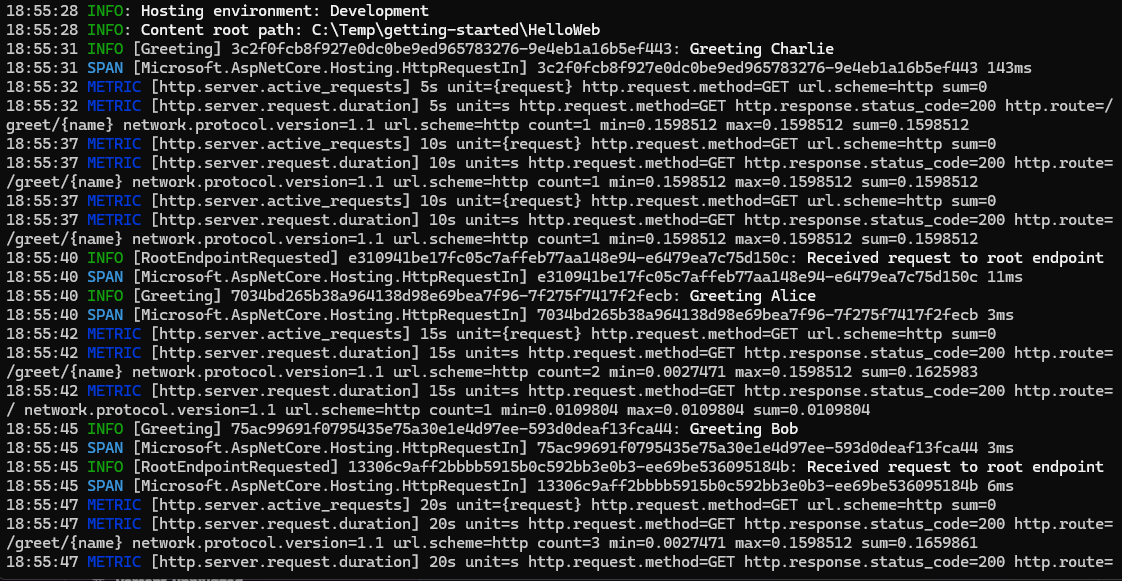
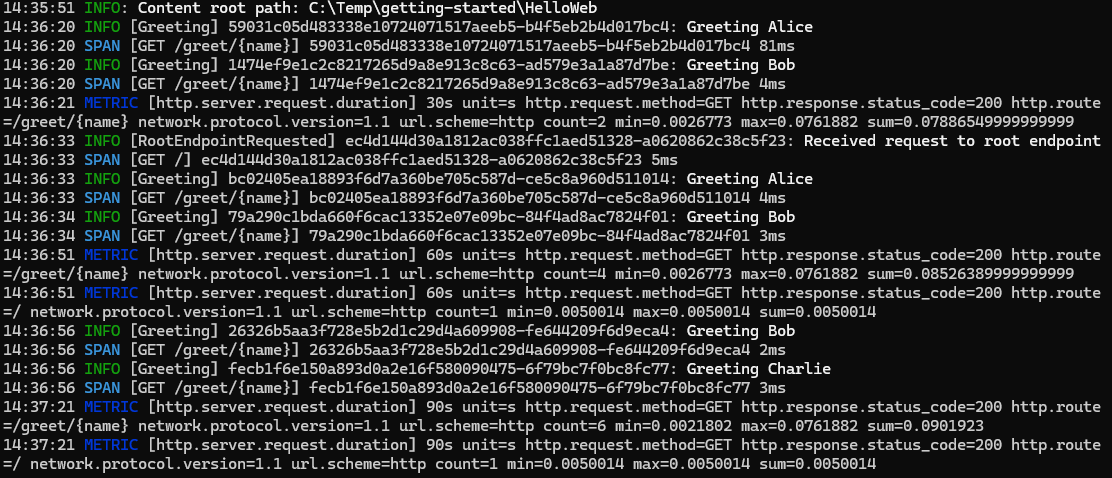
Update examples for span fix

diff --git a/docs/HelloWorld4-Metrics.md b/docs/HelloWorld4-Metrics.md
@@ -40,11 +40,11 @@ builder
         // Collect metrics from ASP.NET Core
         metrics
             .AddAspNetCoreInstrumentation()
-            // Keep instruments that start with "http.server.", and drop others
+            // Keep instruments that start with "http.server.request", and drop others
             .AddView(instrument =>
-                instrument.Name.StartsWith("http.server.", StringComparison.Ordinal)
+                instrument.Name.StartsWith("http.server.request", StringComparison.Ordinal)
                     ? null : MetricStreamConfiguration.Drop)
-            .AddColoredConsoleExporter(options => { }, exportIntervalMilliseconds: 5000);
+            .AddColoredConsoleExporter(options => { }, exportIntervalMilliseconds: 30_000);
     });
 
 var app = builder.Build();
@@ -93,11 +93,10 @@ Make several requests to generate metrics, copying the port shown on start up:
 curl http://localhost:5213
 curl http://localhost:5213/greet/Alice
 curl http://localhost:5213/greet/Bob
-curl http://localhost:5213
 curl http://localhost:5213/greet/Charlie
 ```
 
-Every 5 seconds, you should see metrics output in the console showing HTTP request metrics:
+Every 30 seconds, you should see metrics output in the console showing HTTP request metrics:
 
 ![ASP.NET startup](images/screen-web-metrics.png)
 
@@ -116,14 +115,14 @@ Note that outputting individual metric counters to the console may not be very i
         .AddView(instrument =>
             instrument.Name.StartsWith("http.server.", StringComparison.Ordinal)
                 ? null : MetricStreamConfiguration.Drop)
-        .AddColoredConsoleExporter(options => { }, exportIntervalMilliseconds: 5000);
+        .AddColoredConsoleExporter(options => { }, exportIntervalMilliseconds: 30_000);
 })
 ```
 
 - `WithMetrics()` configures OpenTelemetry metrics collection
 - `AddView()` filters the metrics to only include those starting with `http.server.` (by returning the default null), and dropping all others
 - `AddAspNetCoreInstrumentation()` automatically collects HTTP metrics from ASP.NET Core
-- `AddColoredConsoleExporter()` exports metrics to the console every 5 seconds
+- `AddColoredConsoleExporter()` exports metrics to the console every 30 seconds
 
 ### 2. Automatic Metric Collection
 
@@ -137,7 +136,7 @@ You don't need to write any code to instrument individual requests – the metri
 
 ### 3. Metric Export Interval
 
-The metrics are exported every 5 seconds (5000 milliseconds). This is configured in the `exportIntervalMilliseconds` parameter.
+The metrics are exported every 30 seconds (30_000 milliseconds). This is configured in the `exportIntervalMilliseconds` parameter.
 
 ## Understanding the Metrics
 
@@ -157,11 +156,11 @@ This data helps you:
 - Spot performance issues (endpoints with high max duration)
 - Monitor application health (status codes, active requests)
 
-Examining the output above you can see the `duration` metrics for the `route=/greet/{name}`, having `count=1` for the first 10 seconds, then increasing to 2, then 3, as more requests are received.
+Examining the output above you can see the `duration` metrics for the `route=/greet/{name}`, having `count=2` for the first 30 seconds, then increasing to 4, then 6, as more requests are received.
 
-From the 15s mark there are also metrics for `route=/`.
+From the 60s mark there are also metrics for `route=/`.
 
-In this case the 15s metrics overlap with the earlier metric periods, so you would need to take the difference for that time period.
+In this case the later metrics overlap with the earlier metric periods, so you would need to take the difference for each period.
 
 ## Next Steps
 

diff --git a/src/Essential.OpenTelemetry.Exporter.ColoredConsole/README.md b/src/Essential.OpenTelemetry.Exporter.ColoredConsole/README.md
@@ -13,23 +13,23 @@ This exporter is part of the [Essential .NET OpenTelemetry](https://github.com/s
 
 ## Installation
 
-Install the NuGet package via `dotnet` or another package manager:
+Install the required NuGet packages via `dotnet` or another package manager:
 
-```bash
+```powershell
+dotnet add package OpenTelemetry.Extensions.Hosting
 dotnet add package Essential.OpenTelemetry.Exporter.ColoredConsole
 ```
 
-## Basic usage (logging)
+## Getting started with basic logging
 
-Add the following using statements:
+For a standard .NET host application, add the following using statements:
 
 ```csharp
 using Essential.OpenTelemetry;
 using Microsoft.Extensions.Hosting;
-using Microsoft.Extensions.Logging;
 ```
 
-Configure OpenTelemetry with the colored console exporter for logging, and clear the default loggers:
+Then clear the default loggers, and configure OpenTelemetry with the colored console exporter:
 
 ```csharp
 builder.Logging.ClearProviders();
@@ -40,17 +40,22 @@ builder.Services.AddOpenTelemetry()
     });
 ```
 
-## Usage (full telemetry)
+## Automatic instrumentation - ASP.NET
 
-For full telemetry support including traces and metrics, also add these using statements:
+Automatic instrumentation is available for various components, e.g. for an ASP.NET application, following on from the basic setup, above:
+
+```powershell
+dotnet add package OpenTelemetry.Instrumentation.AspNetCore
+```
+
+Then add the additional using statements:
 
 ```csharp
-using Microsoft.Extensions.DependencyInjection;
 using OpenTelemetry.Trace;
 using OpenTelemetry.Metrics;
 ```
 
-Then configure the colored console exporter along with your other configuration for logs, traces, and metrics:
+And configure the colored console exporter along with the automatic instrumentation for traces and metrics:
 
 ```csharp
 builder.Logging.ClearProviders();
@@ -61,13 +66,18 @@ builder.Services.AddOpenTelemetry()
     })
     .WithTracing(tracing =>
     {
-        tracing.AddSource("YourServiceName")
-               .AddColoredConsoleExporter();
+        tracing.AddAspNetCoreInstrumentation().AddColoredConsoleExporter();
     })
     .WithMetrics(metrics =>
     {
-        metrics.AddMeter("YourServiceName")
-               .AddColoredConsoleExporter();
+        metrics
+            .AddAspNetCoreInstrumentation()
+            .AddView(instrument =>
+                instrument.Name.StartsWith("http.server.request", StringComparison.Ordinal)
+                    ? null
+                    : MetricStreamConfiguration.Drop
+            )
+            .AddColoredConsoleExporter(options => { }, exportIntervalMilliseconds: 60_000);
     });
 ```
 
